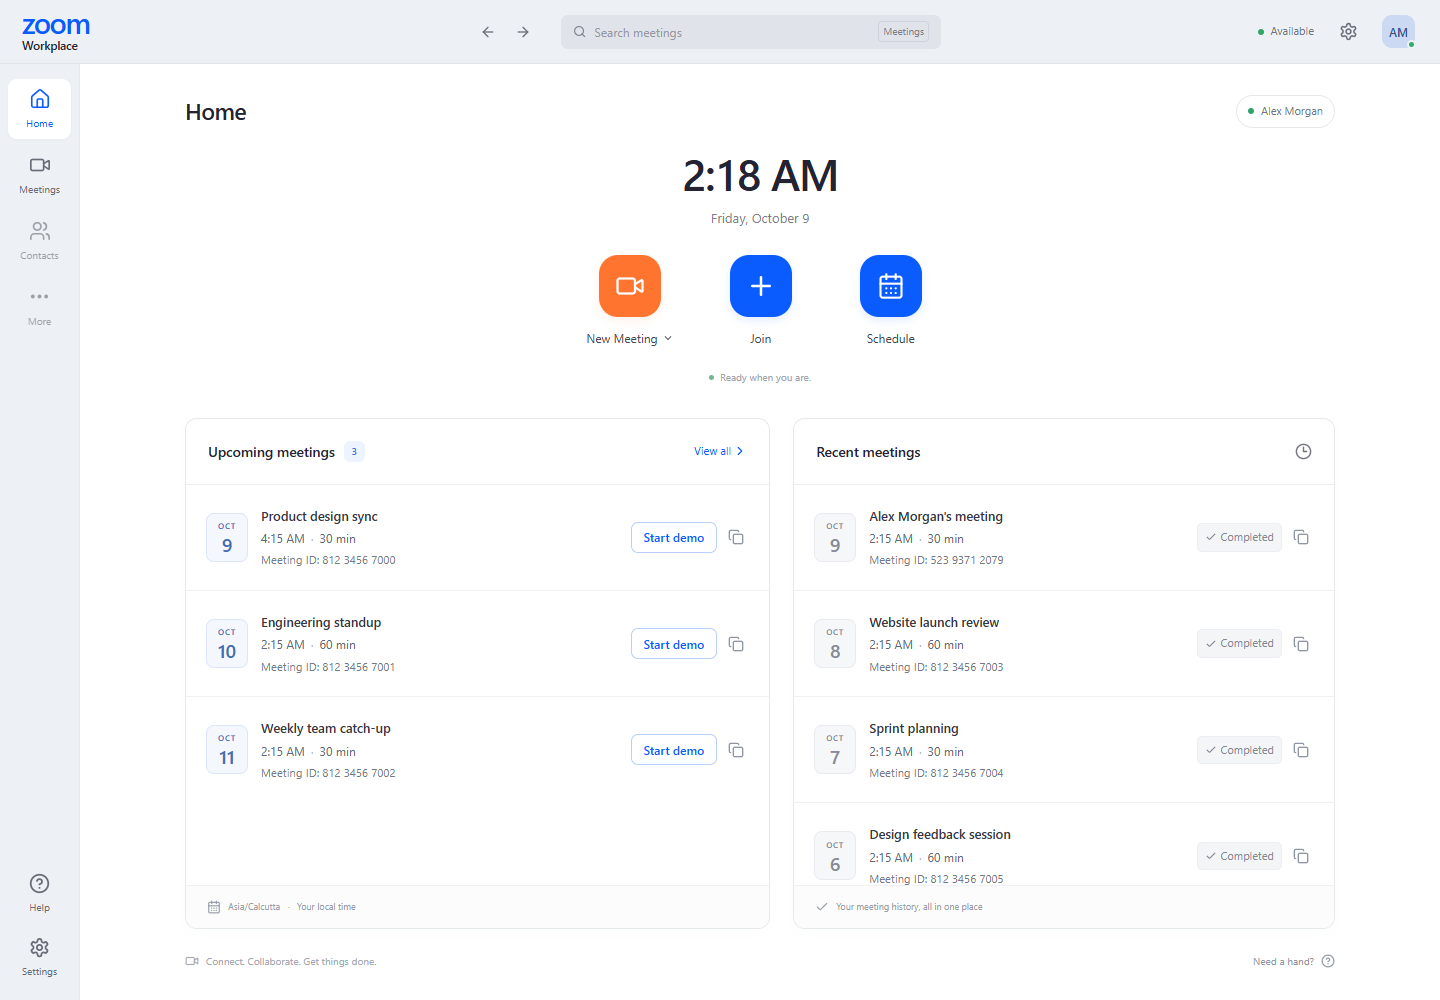
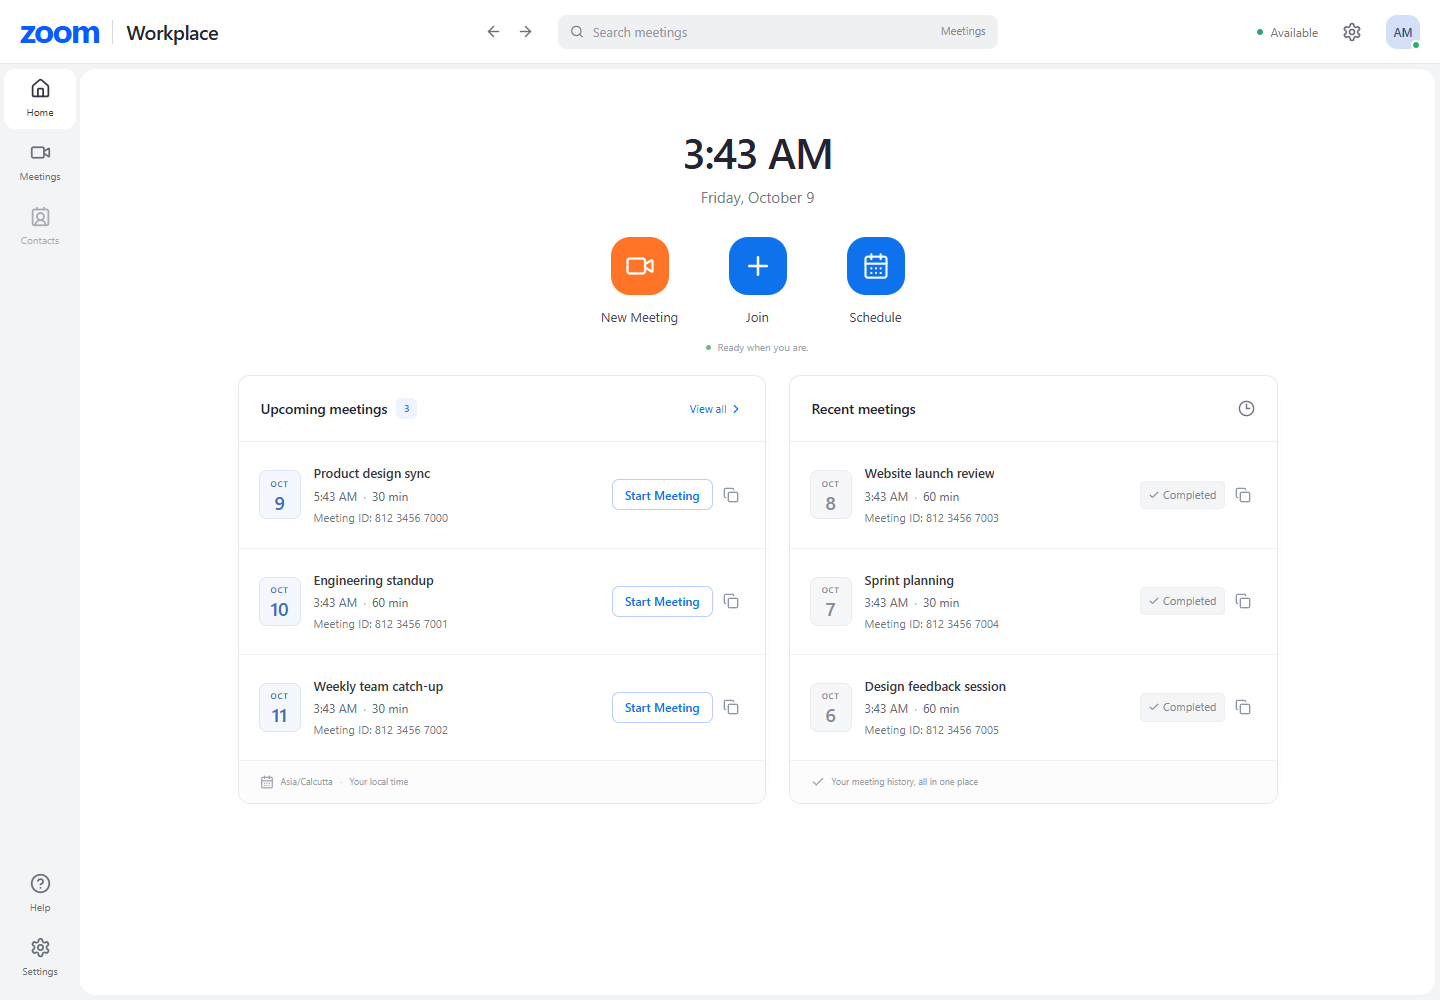
docs: refresh submission screenshots and verification results
Document the split-view manager, dedicated forms, 1440/768/390 visual review, 63 backend and 13 browser test results, restart persistence, and unverified physical-device and deployment checks. Keep private interview notes untracked.

diff --git a/README.md b/README.md
@@ -10,10 +10,11 @@ This is an original educational implementation, not an official Zoom product. Vi
 
 ## Features
 
-- Responsive Home and Meetings views, upcoming/recent records, search, empty states, retry states, and a live clock.
+- Zoom Workplace-inspired shared navigation, a compact Home clock/actions area, and SQLite-backed upcoming/recent cards.
+- Split-view Meetings manager with date grouping, selection, Upcoming/Previous tabs, invitation details, and mobile list-to-detail navigation.
 - Instant meeting creation with a unique 11-digit ID and shareable invitation.
-- Join by formatted ID or application invitation URL, including direct-link prejoin with a required display name.
-- Scheduling with title, description, local date/time, timezone, duration, persisted records, and invitation copying.
+- Dedicated `/join` page accepting formatted IDs or application invitation URLs, including direct-link prejoin with a required display name.
+- Dedicated `/schedule` form with title, description, local date/time, friendly GMT offset plus IANA timezone, duration, persisted records, and invitation copying.
 - Real two-person camera/audio conferencing, media preview, microphone/camera toggles, roster, invitations, and leave/end actions.
 - Server-authorized host mute-all, participant removal, and end-for-everyone.
 - Clear media permission errors, joining without media, host-first scheduled admission, and explicit rejoining after disconnection.
@@ -27,11 +28,17 @@ Profile, settings, and contacts are labeled placeholders. Login, recording, and 
 
 Captured from the actual local production build with SQLite-backed sample records. The room screenshot shows two admitted participants with cameras off; separate media tests verify real RTP and decoded frames.
 
+These screenshots show the locally verified frontend refinement. The public deployment links above may still show the preceding release until these changes are published and deployed.
+
 ![Dashboard](docs/screenshots/dashboard.png)
+
+![Split-view Meetings manager](docs/screenshots/meetings.png)
 
 ![Two-participant meeting room and host controls](docs/screenshots/meeting-room.png)
 
-![Scheduling dialog](docs/screenshots/scheduling.png)
+![Schedule Meeting page](docs/screenshots/scheduling.png)
+
+![Join Meeting page](docs/screenshots/join.png)
 
 <img src="docs/screenshots/mobile.png" alt="Mobile dashboard" width="390" />
 
@@ -42,7 +49,7 @@ Next.js App Router, React, strict TypeScript, Tailwind CSS 4, Lucide React; Pyth
 ```text
 frontend/
   app/                 Routes, global styles, error pages
-  components/          Dashboard, dialogs, meeting room, shared UI
+  components/          Workspace shell, meeting manager/forms, room, shared UI
   hooks/               Local media and WebRTC/signaling
   lib/                 Typed API client, invitations, date helpers
   types/               API contracts
@@ -272,9 +279,23 @@ The automated failure/retry test substitutes unreachable media candidates while 
 
 ## Verification
 
+The frontend refinement was verified locally on **9 October 2026 (India time)**:
+
+| Check | Result |
+| --- | --- |
+| Backend pytest | **63 passed**; existing API, database, authorization, and signaling behavior preserved |
+| Frontend lint, TypeScript, formatting, production build | Passed |
+| Playwright against the local production build | **13 passed**, including mandatory workflows, host/sample claiming, keyboard navigation, two-way synthetic audio/video, ICE retry, UDP/TCP relay media, screen sharing, chat, and host controls |
+| Scheduling timezone | Browser timezone and daylight-saving offset verified in a separate New York context; UTC persistence and host access checked |
+| SQLite persistence | A scheduled record's ID, title, description, UTC timestamp, timezone, duration, and status survived an actual local backend restart |
+| Visual comparison | Home, Meetings, Schedule, Join, and meeting room captured at **1440, 768, and 390 px** and compared with the supplied Zoom screenshots; mobile detail, chat, participants, and centered branding also inspected |
+| Responsive interactions | No horizontal overflow; mobile list-to-detail/back navigation, tabs, form controls, and room toolbar bounds passed |
+
+The backend and WebRTC hooks were not changed by this UI refinement. Temporary relay credentials and test services are local only. Physical camera/microphone quality, physical mobile keyboard behavior, cross-device/network conferencing, hosted TURN/TLS, and this refinement's production deployment have **not** been verified. Unsupported Zoom product/upgrade/calendar controls are intentionally omitted; branding and initials use original code rather than proprietary assets.
+
 The targeted WebSocket reliability update was verified locally on **9 October 2026 (India time)**: **63 backend tests passed**, Ruff checks passed, frontend lint/typecheck/format/production build passed, and **all 11 browser tests passed**, including authenticated local UDP/TCP TURN transport, ICE restart, host controls, screen sharing, chat, and mandatory workflows. Real Uvicorn socket tests confirmed oversized text/binary/fragmented messages never reached ASGI, while a near-limit valid offer was forwarded. SQL instrumentation confirmed one joined SELECT per authentication/command and current-role host checks. The Docker image built successfully, returned healthy SQLite status, and rejected an oversized WebSocket message with code 1009. Temporary test servers, containers, and relay credentials were removed. These changes have not yet been deployed; the following cloud results describe the preceding application release.
 
-Latest improvements were verified locally on **9 October 2026 (India time)**:
+The preceding application release was verified locally on **9 October 2026 (India time)**:
 
 | Check                                              | Result                                                                                                                                                                                      |
 | -------------------------------------------------- | ------------------------------------------------------------------------------------------------------------------------------------------------------------------------------------------- |
